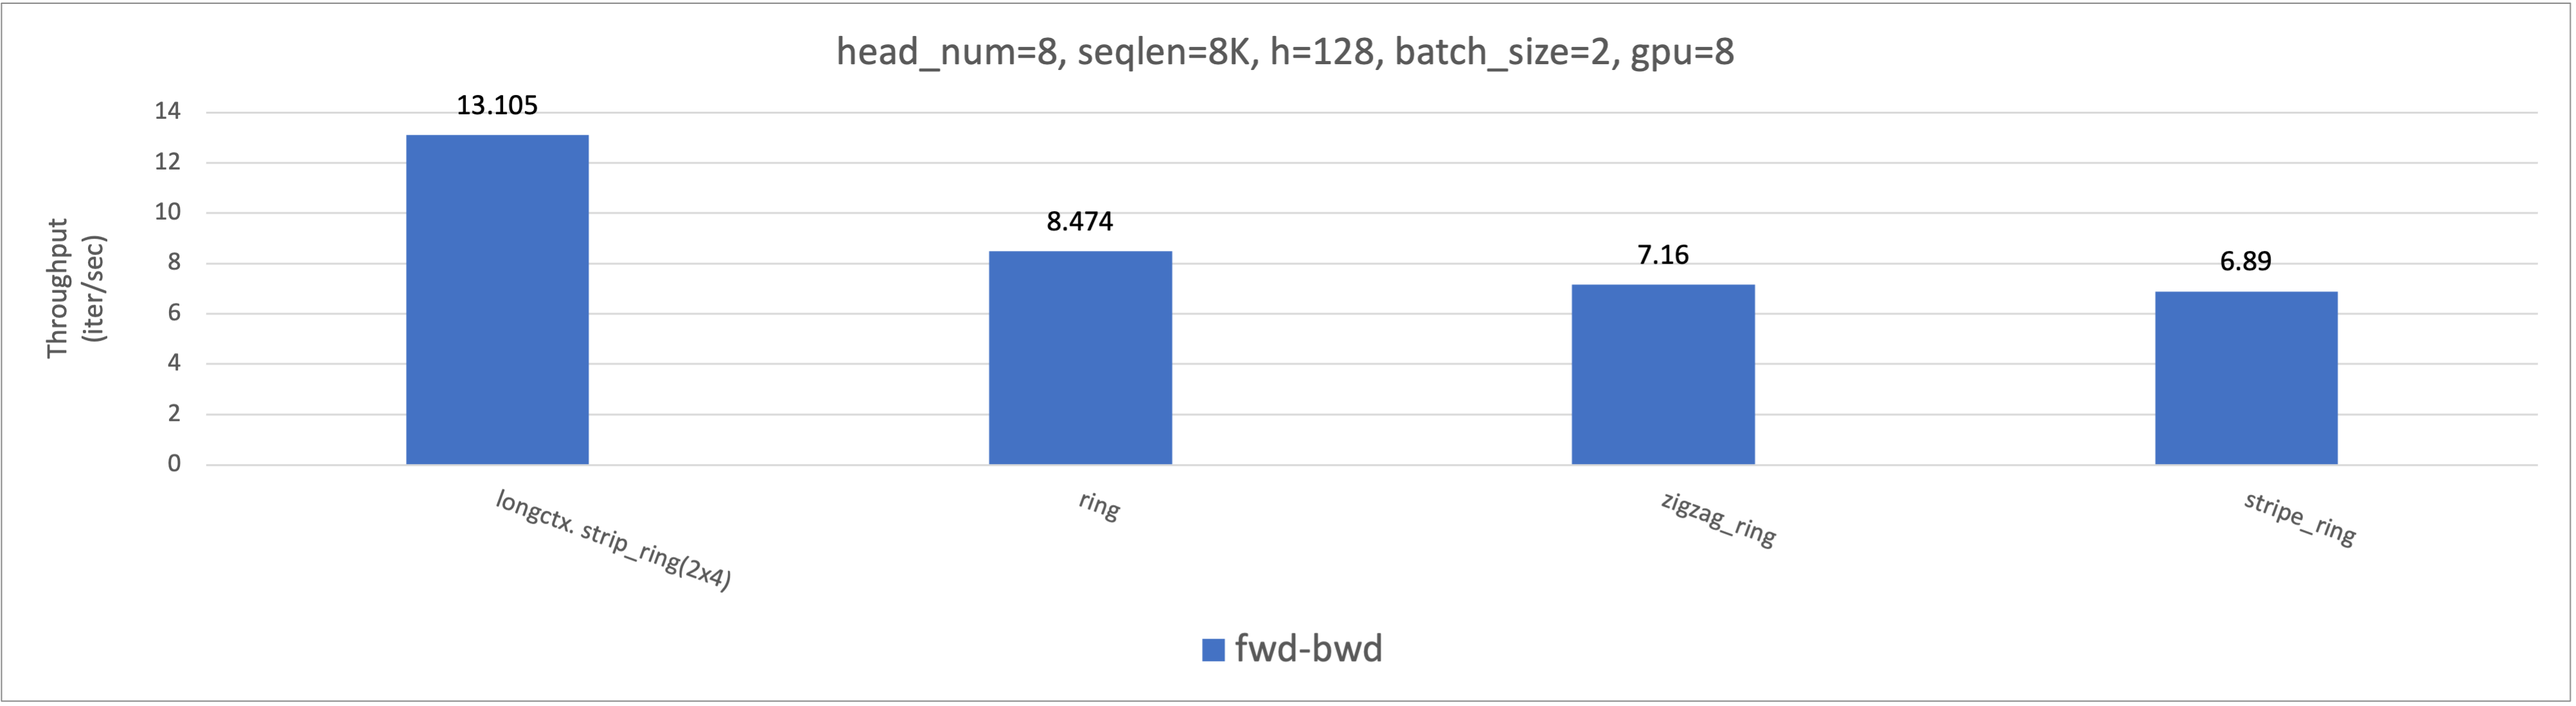
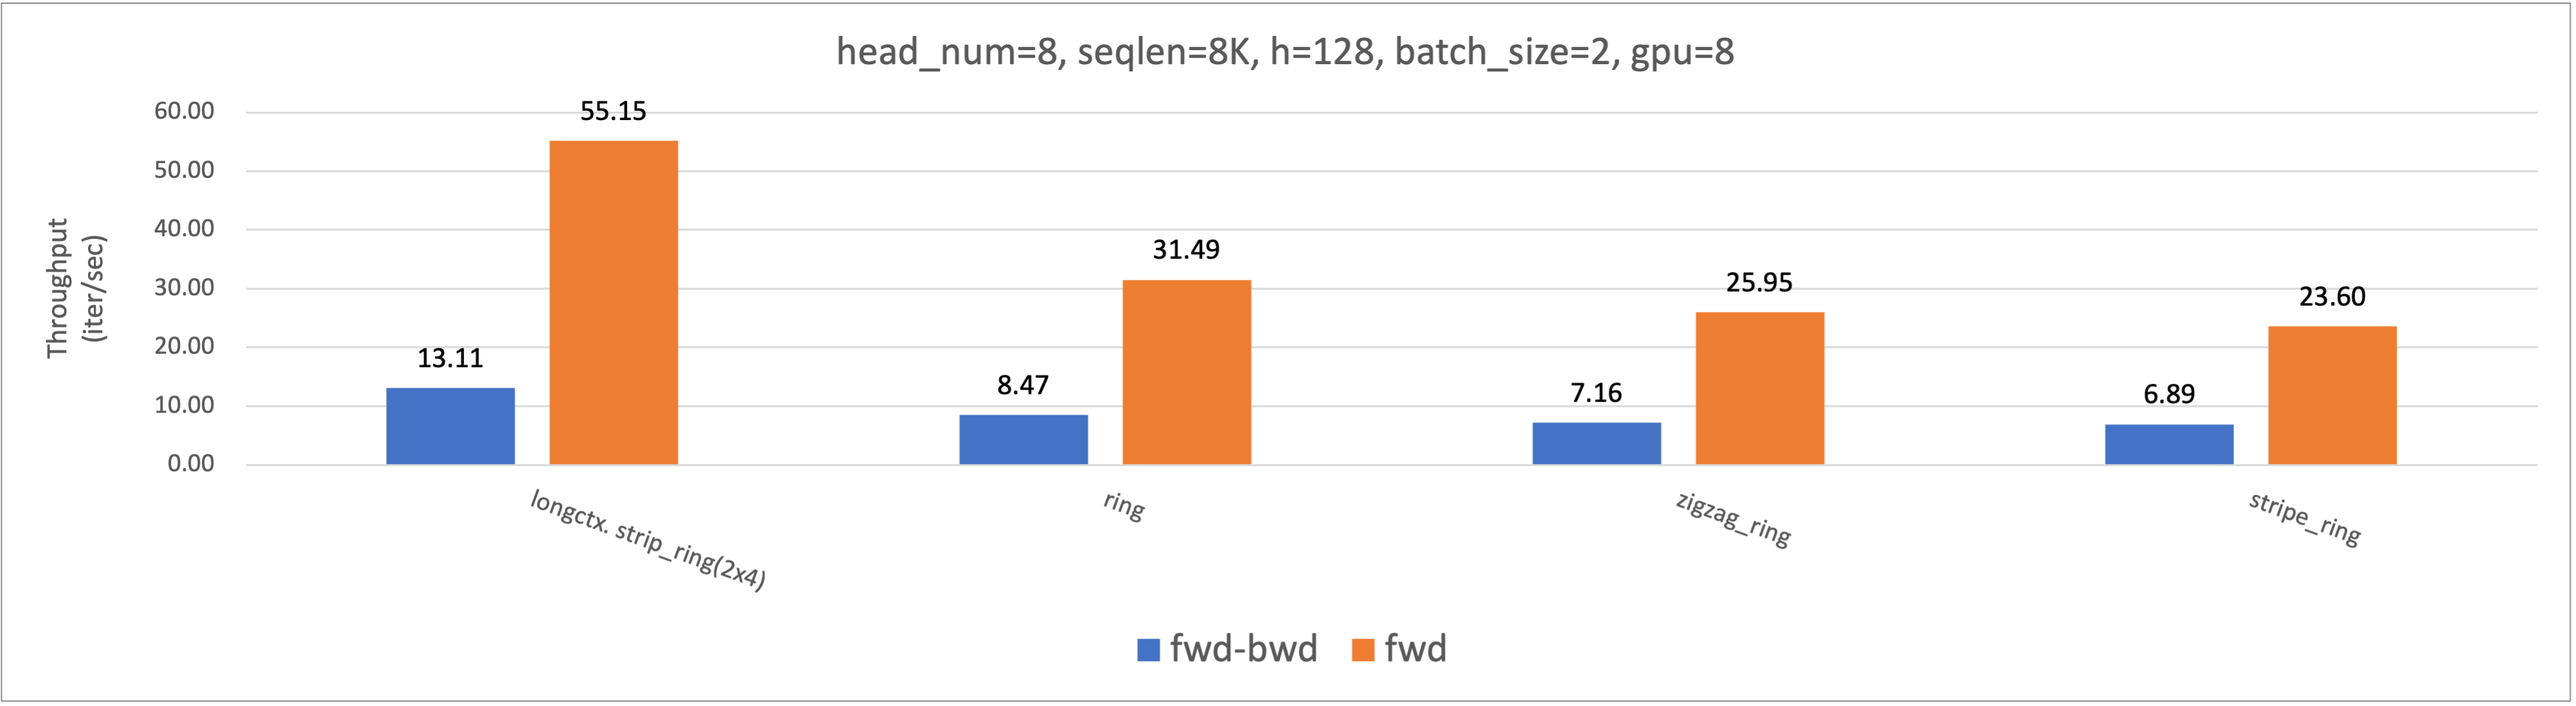
update head=8 perf in readme

diff --git a/README.md b/README.md
@@ -53,7 +53,7 @@ We observed that the best throughput is achieved when `ulysses_degree`=4 and rin
 | strip                          | 8.464 | 10.964| **13.105**| 10.589|
 
 
-In the figure presented below, we contrast the performance of LongContextAttention with that of ring-flash-attention. Notably, LongContextAttention demonstrates a remarkable **54%** increase in throughput, showcasing its superior efficiency over the ring-flash-attention approach.
+In the figure presented below, we contrast the performance of LongContextAttention with that of ring-flash-attention. Notably, LongContextAttention demonstrates a remarkable **54%** and **75%** increase in throughpu for FWD+BWD and FWD-only, showcasing its superior efficiency over the ring-flash-attention approach.
 
 
 ![head=8](./media/long_ctx_h8.png)
